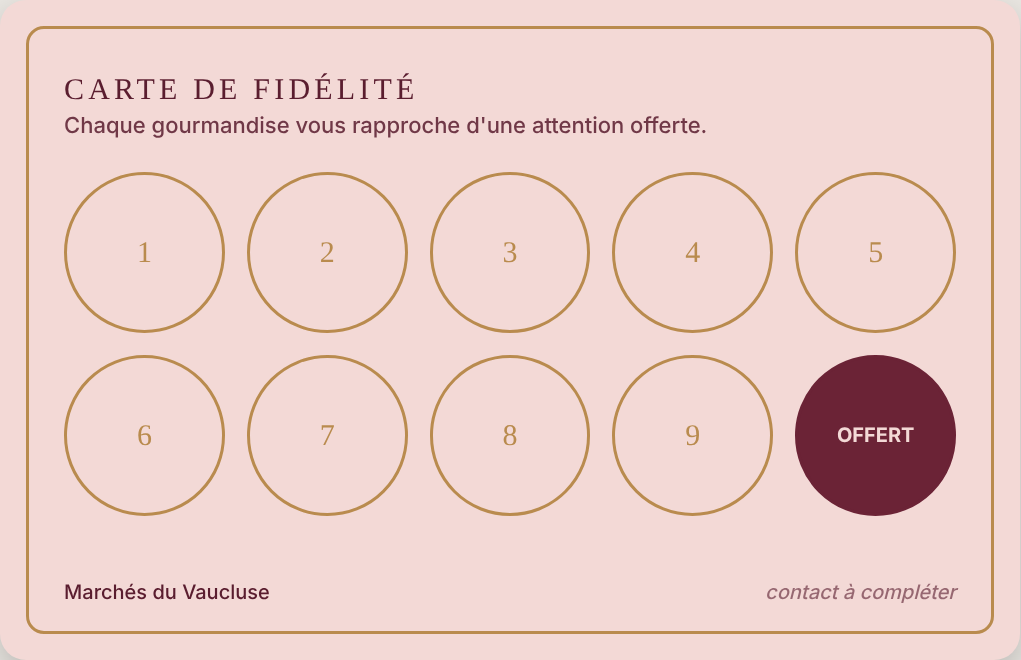
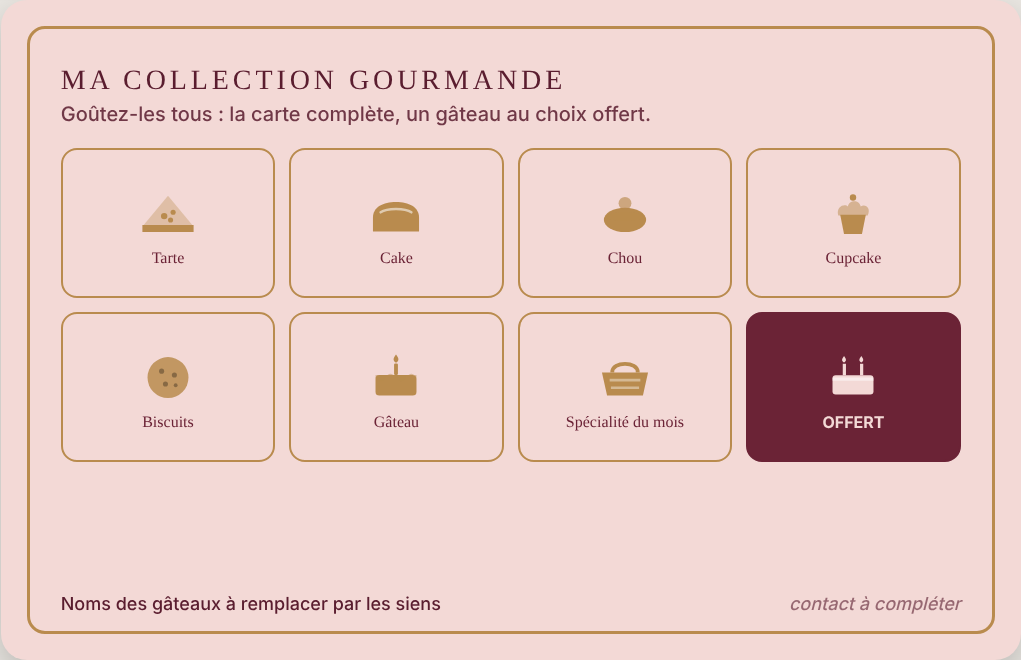
Alex Pellegrino : maquettes v2 détaillées (banne, gâteaux) et 3 mécaniques de fidélité, fiche d'idées
Claude-Session: https://claude.ai/code/session_019cx1wraLMWwAprTLffv24G

diff --git a/cartes/alex-pellegrino/cartes.html b/cartes/alex-pellegrino/cartes.html
@@ -1,59 +1,65 @@
-<!doctype html><html lang="fr"><meta charset="utf-8"><title>Cartes de fidélité · Alex Pellegrino · 3 pistes</title>
+<!doctype html><html lang="fr"><meta charset="utf-8"><title>Cartes de fidélité · Alex Pellegrino · v2</title>
 <style>
-@font-face{font-family:Inter;font-weight:900;src:url(Inter-Black.otf)}
-@font-face{font-family:Inter;font-weight:700;src:url(Inter-Bold.otf)}
-@font-face{font-family:Inter;font-weight:500;src:url(Inter-Medium.otf)}
-*{box-sizing:border-box;margin:0}
-body{background:#e9e6e1;font-family:Inter,sans-serif;padding:40px;width:2200px}
+@font-face{font-family:Inter;font-weight:900;src:url(Inter-Black.otf)}@font-face{font-family:Inter;font-weight:700;src:url(Inter-Bold.otf)}@font-face{font-family:Inter;font-weight:500;src:url(Inter-Medium.otf)}
+*{box-sizing:border-box;margin:0}body{background:#e9e6e1;font-family:Inter,sans-serif;padding:40px;width:2200px}
 h1{font-size:34px;margin-bottom:6px}.sub{color:#555;margin-bottom:28px;font-size:18px}
-.row{display:flex;gap:40px;margin-bottom:46px;align-items:flex-start}
-.lab{width:200px;font-size:17px;line-height:1.4}.lab b{display:block;font-size:24px;margin-bottom:6px}
+.row{display:flex;gap:40px;margin-bottom:46px;align-items:flex-start}.lab{width:200px;font-size:17px;line-height:1.4}.lab b{display:block;font-size:24px;margin-bottom:6px}.lab i{display:block;margin-top:10px;font-style:normal;font-weight:700;color:#8a3b1f}
 .card{width:1020px;height:660px;border-radius:26px;position:relative;overflow:hidden;box-shadow:0 14px 34px #0003;flex:none}
-.card small{display:block}
-/* A — Marché provençal */
+.awn{position:absolute;left:0;right:0;top:0;height:70px}.scal{position:absolute;left:0;right:0;top:70px;height:30px}
+.ic{width:100%;height:100%}
+/* A */
 .A{background:#f6ecdc;color:#3d3426}
-.A .band{position:absolute;left:0;right:0;bottom:0;height:150px;background:#c4623a}
-.A .sun{position:absolute;right:-70px;top:-70px;width:330px;height:330px;border-radius:50%;background:#e8b04a;opacity:.9}
-.A .r1{position:absolute;left:70px;top:90px}
-.A .script{font:italic 400 92px Georgia,serif;color:#c4623a;line-height:1}
-.A .name{font:900 64px Inter;letter-spacing:.04em;margin-top:6px;color:#3d3426}
-.A .tag{font:500 24px Inter;letter-spacing:.22em;text-transform:uppercase;margin-top:26px;color:#5b6b3a}
-.A .foot{position:absolute;left:70px;bottom:52px;font:700 26px Inter;color:#f6ecdc;letter-spacing:.06em}
-/* B — Pâtisserie chic */
-.B{background:#f3d9d6;color:#5a1d2f}
-.B .frame{position:absolute;inset:26px;border:3px solid #b98b4e;border-radius:18px}
-.B .mono{position:absolute;left:50%;top:150px;transform:translateX(-50%);width:170px;height:170px;border-radius:50%;border:3px solid #b98b4e;display:flex;align-items:center;justify-content:center;font:italic 400 88px Georgia,serif;color:#6b2336}
-.B .name{position:absolute;left:0;right:0;top:350px;text-align:center;font:400 54px Georgia,serif;letter-spacing:.2em;text-transform:uppercase}
-.B .tag{position:absolute;left:0;right:0;top:432px;text-align:center;font:500 22px Inter;letter-spacing:.3em;text-transform:uppercase;color:#b98b4e}
-/* C — Artisan gourmand */
+.A .r1{position:absolute;left:70px;top:150px}.A .script{font:italic 400 88px Georgia,serif;color:#c4623a;line-height:1}
+.A .name{font:900 62px Inter;letter-spacing:.04em;margin-top:4px}.A .tag{font:500 22px Inter;letter-spacing:.22em;text-transform:uppercase;margin-top:22px;color:#5b6b3a}
+.A .shelf{position:absolute;right:50px;bottom:60px;display:flex;gap:6px;align-items:flex-end;color:#c4623a}.A .shelf div{width:96px;height:96px}.A .shelf div:nth-child(2){color:#5b6b3a;width:120px;height:120px}.A .shelf div:nth-child(3){color:#e8a23a}
+.A .base{position:absolute;right:40px;bottom:52px;width:400px;height:8px;border-radius:4px;background:#3d3426;opacity:.75}
+.A .foot{position:absolute;left:70px;bottom:56px;font:700 22px Inter;letter-spacing:.14em;color:#c4623a}
+/* B */
+.B{background:#f3d9d6;color:#5a1d2f}.B .frame{position:absolute;inset:26px;border:3px solid #b98b4e;border-radius:18px}
+.B .mono{position:absolute;left:50%;top:110px;transform:translateX(-50%);width:170px;height:170px;border-radius:50%;border:3px solid #b98b4e;display:flex;align-items:center;justify-content:center;font:italic 400 88px Georgia,serif;color:#6b2336;background:#f8e7e4}
+.B .mono .ic{position:absolute;width:62px;height:62px;bottom:-26px;color:#6b2336;background:#f3d9d6;border-radius:50%;padding:6px}
+.B .name{position:absolute;left:0;right:0;top:330px;text-align:center;font:400 52px Georgia,serif;letter-spacing:.2em;text-transform:uppercase}
+.B .tag{position:absolute;left:0;right:0;top:410px;text-align:center;font:500 21px Inter;letter-spacing:.3em;text-transform:uppercase;color:#b98b4e}
+.B .sprig{position:absolute;left:0;right:0;top:470px;display:flex;justify-content:center;gap:26px;color:#b98b4e}.B .sprig div{width:44px;height:44px;opacity:.8}
+/* C */
 .C{background:#d9b88f;color:#3b2417}
-.C .stamp{position:absolute;right:60px;top:60px;width:210px;height:210px;border-radius:50%;border:6px double #3b2417;display:flex;flex-direction:column;align-items:center;justify-content:center;transform:rotate(-12deg);font:900 24px Inter;letter-spacing:.12em;text-align:center;line-height:1.35}
-.C .name{position:absolute;left:70px;top:150px;font:900 120px Inter;letter-spacing:-.04em;line-height:.9;color:#3b2417}
-.C .name span{display:block;color:#f6ecdc}
-.C .tag{position:absolute;left:74px;bottom:70px;font:700 26px Inter;letter-spacing:.18em;text-transform:uppercase}
+.C .stamp{position:absolute;right:60px;top:120px;width:200px;height:200px;border-radius:50%;border:6px double #3b2417;display:flex;flex-direction:column;align-items:center;justify-content:center;transform:rotate(-12deg);font:900 22px Inter;letter-spacing:.12em;text-align:center;line-height:1.3}
+.C .stamp .ic{width:60px;height:60px;margin-top:4px}
+.C .name{position:absolute;left:70px;top:160px;font:900 116px Inter;letter-spacing:-.04em;line-height:.9}.C .name span{display:block;color:#f6ecdc}
+.C .tag{position:absolute;left:74px;bottom:62px;font:700 24px Inter;letter-spacing:.18em;text-transform:uppercase}
+.C .bask{position:absolute;right:70px;bottom:46px;width:130px;height:130px;color:#3b2417}
 /* versos */
-.v{padding:54px 64px}
-.v h3{font:900 34px Inter;letter-spacing:.02em}
-.v p{font:500 22px Inter;margin-top:6px;opacity:.85}
-.grid{display:grid;grid-template-columns:repeat(5,1fr);gap:22px;margin-top:34px}
-.dot{aspect-ratio:1;border-radius:50%;display:flex;align-items:center;justify-content:center;font:900 30px Inter}
-.A .dot{border:4px dashed #c4623a;color:#c4623a}.A .dot.last{background:#c4623a;color:#f6ecdc;border-style:solid;font-size:20px}
-.B .dot{border:3px solid #b98b4e;color:#b98b4e;font-family:Georgia,serif;font-weight:400}.B .dot.last{background:#6b2336;color:#f3d9d6;border-color:#6b2336;font:700 20px Inter}
-.C .dot{border:5px solid #3b2417;color:#3b2417}.C .dot.last{background:#3b2417;color:#d9b88f;font-size:20px}
-.vfoot{position:absolute;left:64px;right:64px;bottom:40px;display:flex;justify-content:space-between;font:500 20px Inter}
-.ph{opacity:.6;font-style:italic}
+.v{padding:50px 60px}.v h3{font:900 32px Inter}.v p{font:500 20px Inter;margin-top:6px;opacity:.85}
+.grid{display:grid;grid-template-columns:repeat(5,1fr);gap:16px;margin-top:26px}
+.dot{aspect-ratio:1;border-radius:50%;display:flex;align-items:center;justify-content:center;position:relative}
+.dot .ic{width:58%;height:58%;opacity:.28}.dot b{position:absolute;right:8px;bottom:4px;font:900 18px Inter}
+.dot.last{font:900 18px Inter;flex-direction:column}.dot.last .ic{opacity:1;width:46%;height:46%}
+.bonus{display:flex;gap:14px;margin-top:22px}.bn{flex:1;display:flex;align-items:center;gap:10px;border-radius:14px;padding:10px 12px;font:700 16px Inter;line-height:1.2}.bn .ic{width:40px;height:40px;flex:none}
+.vfoot{position:absolute;left:60px;right:60px;bottom:30px;display:flex;justify-content:space-between;font:500 18px Inter}.ph{opacity:.6;font-style:italic}
+.A.v .dot{border:4px dashed #c4623a;color:#c4623a}.A.v .last{background:#c4623a;color:#f6ecdc;border-style:solid}.A.v .bn{background:#5b6b3a1f;color:#3d3426}.A.v .bn .ic{color:#5b6b3a}
+.coll{display:grid;grid-template-columns:repeat(4,1fr);gap:14px;margin-top:22px}.ck{border:2px solid #b98b4e;border-radius:16px;height:150px;display:flex;flex-direction:column;align-items:center;justify-content:center;gap:6px;font:500 16px Georgia,serif;color:#6b2336}.ck .ic{width:64px;height:64px;color:#b98b4e}.ck.gift{background:#6b2336;color:#f3d9d6;border-color:#6b2336;font:700 16px Inter}.ck.gift .ic{color:#f3d9d6}
+.C.v .dot{border:5px solid #3b2417;color:#3b2417}.C.v .dot.mid{background:#f6ecdc}.C.v .last{background:#3b2417;color:#d9b88f}.C.v .bn{background:#3b24171a}
+.tick{font:900 13px Inter;letter-spacing:.06em;text-transform:uppercase;position:absolute;bottom:-26px;left:0;right:0;text-align:center}
 </style>
-<h1>Cartes de fidélité · Alex Pellegrino — 3 pistes de maquette</h1>
-<p class="sub">Maquettes de départ (85 × 55 mm, recto/verso). Nom, couleurs, récompense et contact sont des propositions à valider avec Alex.</p>
+<h1>Cartes de fidélité · Alex Pellegrino — 3 pistes, 3 façons de fidéliser (v2)</h1>
+<p class="sub">Maquettes de départ, 85 × 55 mm recto/verso. Nom, couleurs, récompenses et contact sont des propositions à valider avec Alex.</p>
 
-<div class="row"><div class="lab"><b>Piste A</b>Marché provençal<br>Crème, terracotta, olive, soleil. Chaleureux, local.</div>
- <div class="card A" id="A1"><div class="sun"></div><div class="band"></div><div class="r1"><div class="script">Alex</div><div class="name">PELLEGRINO</div><div class="tag">Gâteaux · Marchés du Vaucluse</div></div><div class="foot">CARTE DE FIDÉLITÉ</div></div>
- <div class="card A v" id="A2"><h3>Votre carte gourmande</h3><p>Un tampon à chaque achat. Le 10<sup>e</sup> est pour moi !</p><div class="grid"><div class="dot">1</div><div class="dot">2</div><div class="dot">3</div><div class="dot">4</div><div class="dot">5</div><div class="dot">6</div><div class="dot">7</div><div class="dot">8</div><div class="dot">9</div><div class="dot last">OFFERT</div></div><div class="vfoot"><span>Retrouvez-moi sur les marchés du Vaucluse</span><span class="ph">téléphone / réseau à compléter</span></div></div></div>
+<div class="row"><div class="lab"><b>Piste A</b>Marché provençal : banne de marché, étal de gâteaux.<i>Verso : tampons + bonus</i></div>
+<div class="card A" id="A1"><div class="awn" style="background:repeating-linear-gradient(90deg,#c4623a 0 60px,#f6ecdc 60px 120px)"></div><div class="scal" style="background:radial-gradient(circle at 30px 0,#c4623a 29px,transparent 30px) 0 0/120px 30px repeat-x,radial-gradient(circle at 90px 0,#f6ecdc 29px,transparent 30px) 0 0/120px 30px repeat-x"></div><div class="r1"><div class="script">Alex</div><div class="name">PELLEGRINO</div><div class="tag">Gâteaux faits maison</div></div><div class="shelf"><div><svg class="ic" viewBox="0 0 100 100" fill="currentColor" aria-hidden="true"><path d="M12 72 50 26 88 72z" fill-opacity=".35"/><path d="M10 72h80v11H10z"/><circle cx="44" cy="58" r="5"/><circle cx="58" cy="52" r="4"/><circle cx="54" cy="64" r="4"/></svg></div><div><svg class="ic" viewBox="0 0 100 100" fill="currentColor" aria-hidden="true"><rect x="18" y="50" width="64" height="32" rx="6"/><path d="M18 54c6 8 12 8 16 0s10-8 16 0 10 8 16 0 10-8 16 0v-4H18z" fill-opacity=".45"/><rect x="47" y="32" width="6" height="18" rx="2"/><path d="M50 18c5 6 5 10 0 13-5-3-5-7 0-13z"/></svg></div><div><svg class="ic" viewBox="0 0 100 100" fill="currentColor" aria-hidden="true"><path d="M14 60c0-16 16-24 36-24s36 8 36 24v22H14z"/><path d="M26 52c10-7 38-7 48 0" stroke="#fff" stroke-opacity=".55" stroke-width="4" fill="none" stroke-linecap="round"/></svg></div></div><div class="base"></div><div class="foot">MARCHÉS DU VAUCLUSE</div></div>
+<div class="card A v" id="A2"><h3>Votre carte gourmande</h3><p>Un tampon par achat. Le 10<sup>e</sup> gâteau est offert.</p>
+<div class="grid"><div class="dot"><svg class="ic" viewBox="0 0 100 100" fill="currentColor" aria-hidden="true"><rect x="18" y="50" width="64" height="32" rx="6"/><path d="M18 54c6 8 12 8 16 0s10-8 16 0 10 8 16 0 10-8 16 0v-4H18z" fill-opacity=".45"/><rect x="47" y="32" width="6" height="18" rx="2"/><path d="M50 18c5 6 5 10 0 13-5-3-5-7 0-13z"/></svg><b>1</b></div><div class="dot"><svg class="ic" viewBox="0 0 100 100" fill="currentColor" aria-hidden="true"><path d="M12 72 50 26 88 72z" fill-opacity=".35"/><path d="M10 72h80v11H10z"/><circle cx="44" cy="58" r="5"/><circle cx="58" cy="52" r="4"/><circle cx="54" cy="64" r="4"/></svg><b>2</b></div><div class="dot"><svg class="ic" viewBox="0 0 100 100" fill="currentColor" aria-hidden="true"><path d="M30 56h40l-6 30H36z"/><path d="M27 57c-4-15 11-19 15-14 2-11 18-11 20 0 6-5 17 1 11 14z" fill-opacity=".5"/><circle cx="50" cy="29" r="5"/></svg><b>3</b></div><div class="dot"><svg class="ic" viewBox="0 0 100 100" fill="currentColor" aria-hidden="true"><path d="M14 60c0-16 16-24 36-24s36 8 36 24v22H14z"/><path d="M26 52c10-7 38-7 48 0" stroke="#fff" stroke-opacity=".55" stroke-width="4" fill="none" stroke-linecap="round"/></svg><b>4</b></div><div class="dot"><svg class="ic" viewBox="0 0 100 100" fill="currentColor" aria-hidden="true"><ellipse cx="50" cy="64" rx="33" ry="19"/><path d="M20 60c8-11 52-11 60 0-9 7-51 7-60 0z" fill-opacity=".4"/><circle cx="50" cy="38" r="10" fill-opacity=".65"/></svg><b>5</b></div><div class="dot"><svg class="ic" viewBox="0 0 100 100" fill="currentColor" aria-hidden="true"><circle cx="50" cy="54" r="32" fill-opacity=".85"/><circle cx="40" cy="44" r="4" fill="#000" fill-opacity=".3"/><circle cx="60" cy="50" r="4" fill="#000" fill-opacity=".3"/><circle cx="46" cy="64" r="4" fill="#000" fill-opacity=".3"/><circle cx="62" cy="66" r="3" fill="#000" fill-opacity=".3"/></svg><b>6</b></div><div class="dot"><svg class="ic" viewBox="0 0 100 100" fill="currentColor" aria-hidden="true"><path d="M12 72 50 26 88 72z" fill-opacity=".35"/><path d="M10 72h80v11H10z"/><circle cx="44" cy="58" r="5"/><circle cx="58" cy="52" r="4"/><circle cx="54" cy="64" r="4"/></svg><b>7</b></div><div class="dot"><svg class="ic" viewBox="0 0 100 100" fill="currentColor" aria-hidden="true"><rect x="18" y="50" width="64" height="32" rx="6"/><path d="M18 54c6 8 12 8 16 0s10-8 16 0 10 8 16 0 10-8 16 0v-4H18z" fill-opacity=".45"/><rect x="47" y="32" width="6" height="18" rx="2"/><path d="M50 18c5 6 5 10 0 13-5-3-5-7 0-13z"/></svg><b>8</b></div><div class="dot"><svg class="ic" viewBox="0 0 100 100" fill="currentColor" aria-hidden="true"><path d="M30 56h40l-6 30H36z"/><path d="M27 57c-4-15 11-19 15-14 2-11 18-11 20 0 6-5 17 1 11 14z" fill-opacity=".5"/><circle cx="50" cy="29" r="5"/></svg><b>9</b></div><div class="dot last"><svg class="ic" viewBox="0 0 100 100" fill="currentColor" aria-hidden="true"><rect x="18" y="50" width="64" height="32" rx="6"/><path d="M18 54c6 8 12 8 16 0s10-8 16 0 10 8 16 0 10-8 16 0v-4H18z" fill-opacity=".45"/><rect x="47" y="32" width="6" height="18" rx="2"/><path d="M50 18c5 6 5 10 0 13-5-3-5-7 0-13z"/></svg>OFFERT</div></div>
+<div class="bonus"><div class="bn"><svg class="ic" viewBox="0 0 100 100" fill="currentColor" aria-hidden="true"><path d="M16 44h68v38H16z"/><path d="M12 32h76v14H12z" fill-opacity=".6"/><path d="M50 52c10 0 14 8 10 18-10 0-14-8-10-18z" fill="#fff" fill-opacity=".8"/></svg>+1 tampon si vous venez avec votre boîte</div><div class="bn"><svg class="ic" viewBox="0 0 100 100" fill="currentColor" aria-hidden="true"><circle cx="36" cy="38" r="12"/><circle cx="66" cy="38" r="12" fill-opacity=".6"/><path d="M14 80c0-16 10-24 22-24s22 8 22 24z"/><path d="M44 80c0-16 10-24 22-24s22 8 22 24z" fill-opacity=".6"/></svg>+1 tampon pour vous et un ami que vous amenez</div><div class="bn"><svg class="ic" viewBox="0 0 100 100" fill="currentColor" aria-hidden="true"><rect x="20" y="20" width="60" height="60" rx="18" fill="none" stroke="currentColor" stroke-width="8"/><circle cx="50" cy="50" r="14" fill="none" stroke="currentColor" stroke-width="8"/><circle cx="67" cy="33" r="5"/></svg>+1 tampon en suivant @… sur Instagram</div></div>
+<div class="vfoot"><span>Retrouvez-moi sur les marchés du Vaucluse</span><span class="ph">téléphone / réseau à compléter</span></div></div></div>
 
-<div class="row"><div class="lab"><b>Piste B</b>Pâtisserie chic<br>Rose poudré, bordeaux, filet doré. Élégant, cadeau.</div>
- <div class="card B" id="B1"><div class="frame"></div><div class="mono">A</div><div class="name">Alex Pellegrino</div><div class="tag">Gâteaux · Vaucluse</div></div>
- <div class="card B v" id="B2"><div class="frame"></div><h3 style="font-family:Georgia,serif;font-weight:400;letter-spacing:.14em;text-transform:uppercase;font-size:30px;margin-top:18px">Carte de fidélité</h3><p>Chaque gourmandise vous rapproche d'une attention offerte.</p><div class="grid"><div class="dot">1</div><div class="dot">2</div><div class="dot">3</div><div class="dot">4</div><div class="dot">5</div><div class="dot">6</div><div class="dot">7</div><div class="dot">8</div><div class="dot">9</div><div class="dot last">OFFERT</div></div><div class="vfoot" style="bottom:56px"><span>Marchés du Vaucluse</span><span class="ph">contact à compléter</span></div></div></div>
+<div class="row"><div class="lab"><b>Piste B</b>Pâtisserie chic : monogramme, filet doré.<i>Verso : collection gourmande (goûter toute la gamme)</i></div>
+<div class="card B" id="B1"><div class="frame"></div><div class="mono">A<svg class="ic" viewBox="0 0 100 100" fill="currentColor" aria-hidden="true"><ellipse cx="50" cy="64" rx="33" ry="19"/><path d="M20 60c8-11 52-11 60 0-9 7-51 7-60 0z" fill-opacity=".4"/><circle cx="50" cy="38" r="10" fill-opacity=".65"/></svg></div><div class="name">Alex Pellegrino</div><div class="tag">Gâteaux · Vaucluse</div><div class="sprig"><div><svg class="ic" viewBox="0 0 100 100" fill="currentColor" aria-hidden="true"><path d="M12 72 50 26 88 72z" fill-opacity=".35"/><path d="M10 72h80v11H10z"/><circle cx="44" cy="58" r="5"/><circle cx="58" cy="52" r="4"/><circle cx="54" cy="64" r="4"/></svg></div><div><svg class="ic" viewBox="0 0 100 100" fill="currentColor" aria-hidden="true"><path d="M30 56h40l-6 30H36z"/><path d="M27 57c-4-15 11-19 15-14 2-11 18-11 20 0 6-5 17 1 11 14z" fill-opacity=".5"/><circle cx="50" cy="29" r="5"/></svg></div><div><svg class="ic" viewBox="0 0 100 100" fill="currentColor" aria-hidden="true"><path d="M14 60c0-16 16-24 36-24s36 8 36 24v22H14z"/><path d="M26 52c10-7 38-7 48 0" stroke="#fff" stroke-opacity=".55" stroke-width="4" fill="none" stroke-linecap="round"/></svg></div></div></div>
+<div class="card B v" id="B2"><div class="frame"></div><h3 style="font-family:Georgia,serif;font-weight:400;letter-spacing:.14em;text-transform:uppercase;font-size:28px;margin-top:14px">Ma collection gourmande</h3><p>Goûtez-les tous : la carte complète, un gâteau au choix offert.</p>
+<div class="coll"><div class="ck"><svg class="ic" viewBox="0 0 100 100" fill="currentColor" aria-hidden="true"><path d="M12 72 50 26 88 72z" fill-opacity=".35"/><path d="M10 72h80v11H10z"/><circle cx="44" cy="58" r="5"/><circle cx="58" cy="52" r="4"/><circle cx="54" cy="64" r="4"/></svg>Tarte</div><div class="ck"><svg class="ic" viewBox="0 0 100 100" fill="currentColor" aria-hidden="true"><path d="M14 60c0-16 16-24 36-24s36 8 36 24v22H14z"/><path d="M26 52c10-7 38-7 48 0" stroke="#fff" stroke-opacity=".55" stroke-width="4" fill="none" stroke-linecap="round"/></svg>Cake</div><div class="ck"><svg class="ic" viewBox="0 0 100 100" fill="currentColor" aria-hidden="true"><ellipse cx="50" cy="64" rx="33" ry="19"/><path d="M20 60c8-11 52-11 60 0-9 7-51 7-60 0z" fill-opacity=".4"/><circle cx="50" cy="38" r="10" fill-opacity=".65"/></svg>Chou</div><div class="ck"><svg class="ic" viewBox="0 0 100 100" fill="currentColor" aria-hidden="true"><path d="M30 56h40l-6 30H36z"/><path d="M27 57c-4-15 11-19 15-14 2-11 18-11 20 0 6-5 17 1 11 14z" fill-opacity=".5"/><circle cx="50" cy="29" r="5"/></svg>Cupcake</div><div class="ck"><svg class="ic" viewBox="0 0 100 100" fill="currentColor" aria-hidden="true"><circle cx="50" cy="54" r="32" fill-opacity=".85"/><circle cx="40" cy="44" r="4" fill="#000" fill-opacity=".3"/><circle cx="60" cy="50" r="4" fill="#000" fill-opacity=".3"/><circle cx="46" cy="64" r="4" fill="#000" fill-opacity=".3"/><circle cx="62" cy="66" r="3" fill="#000" fill-opacity=".3"/></svg>Biscuits</div><div class="ck"><svg class="ic" viewBox="0 0 100 100" fill="currentColor" aria-hidden="true"><rect x="18" y="50" width="64" height="32" rx="6"/><path d="M18 54c6 8 12 8 16 0s10-8 16 0 10 8 16 0 10-8 16 0v-4H18z" fill-opacity=".45"/><rect x="47" y="32" width="6" height="18" rx="2"/><path d="M50 18c5 6 5 10 0 13-5-3-5-7 0-13z"/></svg>Gâteau</div><div class="ck"><svg class="ic" viewBox="0 0 100 100" fill="currentColor" aria-hidden="true"><path d="M14 46h72l-8 36H22z"/><path d="M30 46c0-18 40-18 40 0" fill="none" stroke="currentColor" stroke-width="6"/><path d="M26 58h48M28 70h44" stroke="#fff" stroke-opacity=".4" stroke-width="4"/></svg>Spécialité du mois</div><div class="ck gift"><svg class="ic" viewBox="0 0 100 100" fill="currentColor" aria-hidden="true"><rect x="18" y="52" width="64" height="30" rx="5"/><path d="M18 58h64" stroke="#fff" stroke-opacity=".5" stroke-width="5"/><rect x="34" y="34" width="5" height="18"/><rect x="61" y="34" width="5" height="18"/><path d="M36 22c4 5 4 8 0 10-4-2-4-5 0-10zM63 22c4 5 4 8 0 10-4-2-4-5 0-10z"/></svg>OFFERT</div></div>
+<div class="vfoot" style="bottom:46px"><span>Noms des gâteaux à remplacer par les siens</span><span class="ph">contact à compléter</span></div></div></div>
 
-<div class="row"><div class="lab"><b>Piste C</b>Artisan gourmand<br>Kraft, chocolat, grand nom, tampon. Franc, marché.</div>
- <div class="card C" id="C1"><div class="stamp">FAIT<br>MAISON<br>★</div><div class="name">ALEX<span>PELLEGRINO</span></div><div class="tag">Gâteaux de marché</div></div>
- <div class="card C v" id="C2"><h3>CARTE DE FIDÉLITÉ</h3><p>10 tampons = 1 gâteau offert.</p><div class="grid"><div class="dot">1</div><div class="dot">2</div><div class="dot">3</div><div class="dot">4</div><div class="dot">5</div><div class="dot">6</div><div class="dot">7</div><div class="dot">8</div><div class="dot">9</div><div class="dot last">OFFERT</div></div><div class="vfoot"><span>Sur les marchés du Vaucluse</span><span class="ph">téléphone / réseau à compléter</span></div></div></div>
+<div class="row"><div class="lab"><b>Piste C</b>Artisan gourmand : kraft, tampon, panier.<i>Verso : 2 paliers + anniversaire</i></div>
+<div class="card C" id="C1"><div class="stamp">FAIT<br>MAISON<svg class="ic" viewBox="0 0 100 100" fill="currentColor" aria-hidden="true"><path d="M12 72 50 26 88 72z" fill-opacity=".35"/><path d="M10 72h80v11H10z"/><circle cx="44" cy="58" r="5"/><circle cx="58" cy="52" r="4"/><circle cx="54" cy="64" r="4"/></svg></div><div class="name">ALEX<span>PELLEGRINO</span></div><div class="tag">Gâteaux de marché</div><div class="bask"><svg class="ic" viewBox="0 0 100 100" fill="currentColor" aria-hidden="true"><path d="M14 46h72l-8 36H22z"/><path d="M30 46c0-18 40-18 40 0" fill="none" stroke="currentColor" stroke-width="6"/><path d="M26 58h48M28 70h44" stroke="#fff" stroke-opacity=".4" stroke-width="4"/></svg></div></div>
+<div class="card C v" id="C2"><h3>CARTE DE FIDÉLITÉ</h3><p>5 tampons : une petite douceur. 10 tampons : un gâteau offert.</p>
+<div class="grid"><div class="dot"><svg class="ic" viewBox="0 0 100 100" fill="currentColor" aria-hidden="true"><rect x="18" y="50" width="64" height="32" rx="6"/><path d="M18 54c6 8 12 8 16 0s10-8 16 0 10 8 16 0 10-8 16 0v-4H18z" fill-opacity=".45"/><rect x="47" y="32" width="6" height="18" rx="2"/><path d="M50 18c5 6 5 10 0 13-5-3-5-7 0-13z"/></svg><b>1</b></div><div class="dot"><svg class="ic" viewBox="0 0 100 100" fill="currentColor" aria-hidden="true"><path d="M12 72 50 26 88 72z" fill-opacity=".35"/><path d="M10 72h80v11H10z"/><circle cx="44" cy="58" r="5"/><circle cx="58" cy="52" r="4"/><circle cx="54" cy="64" r="4"/></svg><b>2</b></div><div class="dot"><svg class="ic" viewBox="0 0 100 100" fill="currentColor" aria-hidden="true"><path d="M30 56h40l-6 30H36z"/><path d="M27 57c-4-15 11-19 15-14 2-11 18-11 20 0 6-5 17 1 11 14z" fill-opacity=".5"/><circle cx="50" cy="29" r="5"/></svg><b>3</b></div><div class="dot"><svg class="ic" viewBox="0 0 100 100" fill="currentColor" aria-hidden="true"><path d="M14 60c0-16 16-24 36-24s36 8 36 24v22H14z"/><path d="M26 52c10-7 38-7 48 0" stroke="#fff" stroke-opacity=".55" stroke-width="4" fill="none" stroke-linecap="round"/></svg><b>4</b></div><div class="dot mid"><span style="font:900 17px Inter;text-align:center;line-height:1.2">5<br>DOUCEUR</span></div><div class="dot"><svg class="ic" viewBox="0 0 100 100" fill="currentColor" aria-hidden="true"><circle cx="50" cy="54" r="32" fill-opacity=".85"/><circle cx="40" cy="44" r="4" fill="#000" fill-opacity=".3"/><circle cx="60" cy="50" r="4" fill="#000" fill-opacity=".3"/><circle cx="46" cy="64" r="4" fill="#000" fill-opacity=".3"/><circle cx="62" cy="66" r="3" fill="#000" fill-opacity=".3"/></svg><b>6</b></div><div class="dot"><svg class="ic" viewBox="0 0 100 100" fill="currentColor" aria-hidden="true"><path d="M12 72 50 26 88 72z" fill-opacity=".35"/><path d="M10 72h80v11H10z"/><circle cx="44" cy="58" r="5"/><circle cx="58" cy="52" r="4"/><circle cx="54" cy="64" r="4"/></svg><b>7</b></div><div class="dot"><svg class="ic" viewBox="0 0 100 100" fill="currentColor" aria-hidden="true"><rect x="18" y="50" width="64" height="32" rx="6"/><path d="M18 54c6 8 12 8 16 0s10-8 16 0 10 8 16 0 10-8 16 0v-4H18z" fill-opacity=".45"/><rect x="47" y="32" width="6" height="18" rx="2"/><path d="M50 18c5 6 5 10 0 13-5-3-5-7 0-13z"/></svg><b>8</b></div><div class="dot"><svg class="ic" viewBox="0 0 100 100" fill="currentColor" aria-hidden="true"><path d="M30 56h40l-6 30H36z"/><path d="M27 57c-4-15 11-19 15-14 2-11 18-11 20 0 6-5 17 1 11 14z" fill-opacity=".5"/><circle cx="50" cy="29" r="5"/></svg><b>9</b></div><div class="dot last"><svg class="ic" viewBox="0 0 100 100" fill="currentColor" aria-hidden="true"><rect x="18" y="50" width="64" height="32" rx="6"/><path d="M18 54c6 8 12 8 16 0s10-8 16 0 10 8 16 0 10-8 16 0v-4H18z" fill-opacity=".45"/><rect x="47" y="32" width="6" height="18" rx="2"/><path d="M50 18c5 6 5 10 0 13-5-3-5-7 0-13z"/></svg>OFFERT</div></div>
+<div class="bonus" style="margin-top:36px"><div class="bn"><svg class="ic" viewBox="0 0 100 100" fill="currentColor" aria-hidden="true"><rect x="18" y="52" width="64" height="30" rx="5"/><path d="M18 58h64" stroke="#fff" stroke-opacity=".5" stroke-width="5"/><rect x="34" y="34" width="5" height="18"/><rect x="61" y="34" width="5" height="18"/><path d="M36 22c4 5 4 8 0 10-4-2-4-5 0-10zM63 22c4 5 4 8 0 10-4-2-4-5 0-10z"/></svg>Le mois de votre anniversaire : 1 part offerte</div><div class="bn"><svg class="ic" viewBox="0 0 100 100" fill="currentColor" aria-hidden="true"><circle cx="36" cy="38" r="12"/><circle cx="66" cy="38" r="12" fill-opacity=".6"/><path d="M14 80c0-16 10-24 22-24s22 8 22 24z"/><path d="M44 80c0-16 10-24 22-24s22 8 22 24z" fill-opacity=".6"/></svg>Parrainage : 1 tampon pour vous, 1 pour votre ami</div></div>
+<div class="vfoot"><span>Sur les marchés du Vaucluse</span><span class="ph">téléphone / réseau à compléter</span></div></div></div>

diff --git a/cartes/alex-pellegrino/idees-fidelite.md b/cartes/alex-pellegrino/idees-fidelite.md
@@ -1,0 +1,25 @@
+# Idées de fidélité pour Alex Pellegrino (gâteaux, marchés du Vaucluse)
+
+## Mécaniques de carte (au-delà des simples points)
+1. **Tampons classiques** : 10 achats = 1 gâteau offert. Simple, connu de tous (piste A).
+2. **Deux paliers** : 5 tampons = une petite douceur (biscuit, part), 10 = un gâteau. On n'attend pas 10 semaines pour un premier cadeau (piste C).
+3. **Collection gourmande** : une case par gâteau de la gamme ; tout goûter = 1 gâteau au choix offert. Fait découvrir toute la gamme et augmente le panier (piste B).
+4. **Tour des marchés** : une case par marché (ex. Carpentras, Pernes, Monteux…) ; 3 marchés différents = 1 part offerte. Pour les habitués qui le suivent.
+5. **Case surprise** : une case au hasard sur la carte (ex. la 7e) donne une surprise (mini-gâteau, échantillon de la nouveauté).
+
+## Bonus qui rapportent un tampon (actions utiles pour Alex)
+- **Venir avec sa boîte** (+1) : écologique, moins d'emballages pour lui.
+- **Parrainage** (+1 pour vous et +1 pour l'ami) : le bouche-à-oreille, c'est déjà ce qui marche.
+- **S'abonner à son Instagram ou Facebook** (+1) : il peut ensuite annoncer ses marchés et ses nouveautés.
+- **Photo partagée en story avec son @** (+1) : publicité gratuite.
+- **Mois de l'anniversaire** : 1 part offerte.
+- **Commande de fête** (gâteau d'anniversaire, Noël) : double tampon.
+
+## ⚠ « Un avis Google = un tampon » : à éviter
+Google interdit d'offrir une récompense en échange d'un avis (règles des avis Google : avis « incités »). Risques : avis supprimés, fiche pénalisée. En France, un avis obtenu contre une contrepartie doit aussi être signalé comme tel.
+**À la place** : imprimer un QR code « Votre avis compte » au verso, **sans récompense**, et demander l'avis de vive voix aux clients fidèles quand la carte est complète.
+
+## Conseils pratiques pour un stand de marché
+- Tampon encreur à son nom (ou poinçon) : rapide au moment de rendre la monnaie.
+- Carton épais mat (350 g) pour écrire et tamponner ; coins arrondis : résiste au sac.
+- Garder un double des cartes complètes n'est pas nécessaire : la carte pleine est rendue contre le cadeau.

diff --git a/obsidian/IL4N-Studio/01-Clients/Alex Pellegrino - idées fidélité.md b/obsidian/IL4N-Studio/01-Clients/Alex Pellegrino - idées fidélité.md
@@ -1,0 +1,25 @@
+# Idées de fidélité pour Alex Pellegrino (gâteaux, marchés du Vaucluse)
+
+## Mécaniques de carte (au-delà des simples points)
+1. **Tampons classiques** : 10 achats = 1 gâteau offert. Simple, connu de tous (piste A).
+2. **Deux paliers** : 5 tampons = une petite douceur (biscuit, part), 10 = un gâteau. On n'attend pas 10 semaines pour un premier cadeau (piste C).
+3. **Collection gourmande** : une case par gâteau de la gamme ; tout goûter = 1 gâteau au choix offert. Fait découvrir toute la gamme et augmente le panier (piste B).
+4. **Tour des marchés** : une case par marché (ex. Carpentras, Pernes, Monteux…) ; 3 marchés différents = 1 part offerte. Pour les habitués qui le suivent.
+5. **Case surprise** : une case au hasard sur la carte (ex. la 7e) donne une surprise (mini-gâteau, échantillon de la nouveauté).
+
+## Bonus qui rapportent un tampon (actions utiles pour Alex)
+- **Venir avec sa boîte** (+1) : écologique, moins d'emballages pour lui.
+- **Parrainage** (+1 pour vous et +1 pour l'ami) : le bouche-à-oreille, c'est déjà ce qui marche.
+- **S'abonner à son Instagram ou Facebook** (+1) : il peut ensuite annoncer ses marchés et ses nouveautés.
+- **Photo partagée en story avec son @** (+1) : publicité gratuite.
+- **Mois de l'anniversaire** : 1 part offerte.
+- **Commande de fête** (gâteau d'anniversaire, Noël) : double tampon.
+
+## ⚠ « Un avis Google = un tampon » : à éviter
+Google interdit d'offrir une récompense en échange d'un avis (règles des avis Google : avis « incités »). Risques : avis supprimés, fiche pénalisée. En France, un avis obtenu contre une contrepartie doit aussi être signalé comme tel.
+**À la place** : imprimer un QR code « Votre avis compte » au verso, **sans récompense**, et demander l'avis de vive voix aux clients fidèles quand la carte est complète.
+
+## Conseils pratiques pour un stand de marché
+- Tampon encreur à son nom (ou poinçon) : rapide au moment de rendre la monnaie.
+- Carton épais mat (350 g) pour écrire et tamponner ; coins arrondis : résiste au sac.
+- Garder un double des cartes complètes n'est pas nécessaire : la carte pleine est rendue contre le cadeau.

diff --git a/obsidian/IL4N-Studio/01-Clients/Alex Pellegrino.md b/obsidian/IL4N-Studio/01-Clients/Alex Pellegrino.md
@@ -6,4 +6,5 @@ statut: nouveau client (bouche-à-oreille)
 - Identité visuelle : introuvable en ligne, à créer avec lui.
 - Maquettes de départ : 3 pistes (A Marché provençal, B Pâtisserie chic, C Artisan gourmand), dossier `cartes/alex-pellegrino/`.
 - Questions à lui poser : [[01-Clients/Alex Pellegrino - questions]]
+- Idées de fidélité : [[01-Clients/Alex Pellegrino - idées fidélité]]
 - [ ] Le contacter · [ ] Choisir une piste · [ ] Devis · [ ] PDF imprimable
